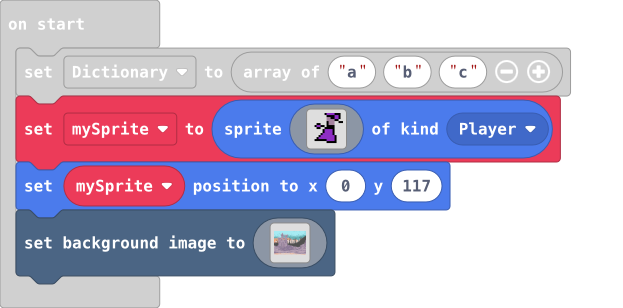
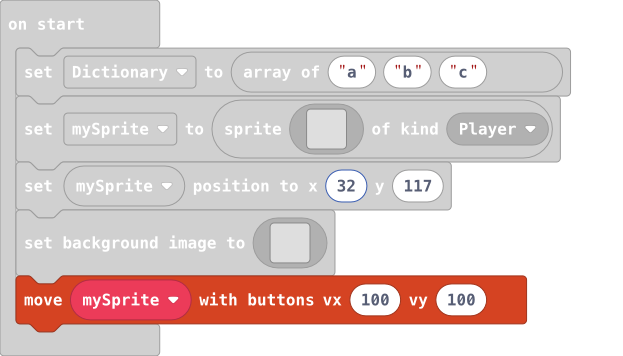
Update main.blocks, main.ts

diff --git a/main.ts b/main.ts
@@ -17,7 +17,7 @@ let mySprite = sprites.create(img`
     . . . . . . . . f f f f f . . . 
     . . . . . . . . . . . . . . . . 
     `, SpriteKind.Player)
-mySprite.setPosition(0, 117)
+mySprite.setPosition(32, 117)
 scene.setBackgroundImage(img`
     9999999999999999999999999999999999999999999999999999999999999999999999999999999999999999999999999966666699969999999999999999999999999999999999999999999999999999
     9999999999999999999999999999999999999999999999999999999999999999999999999999999999999999999999999999999999999999999999999999999999999999999999999999999999999999
@@ -140,3 +140,4 @@ scene.setBackgroundImage(img`
[2 lines of base64/hex data omitted]
     `)
+controller.moveSprite(mySprite)
